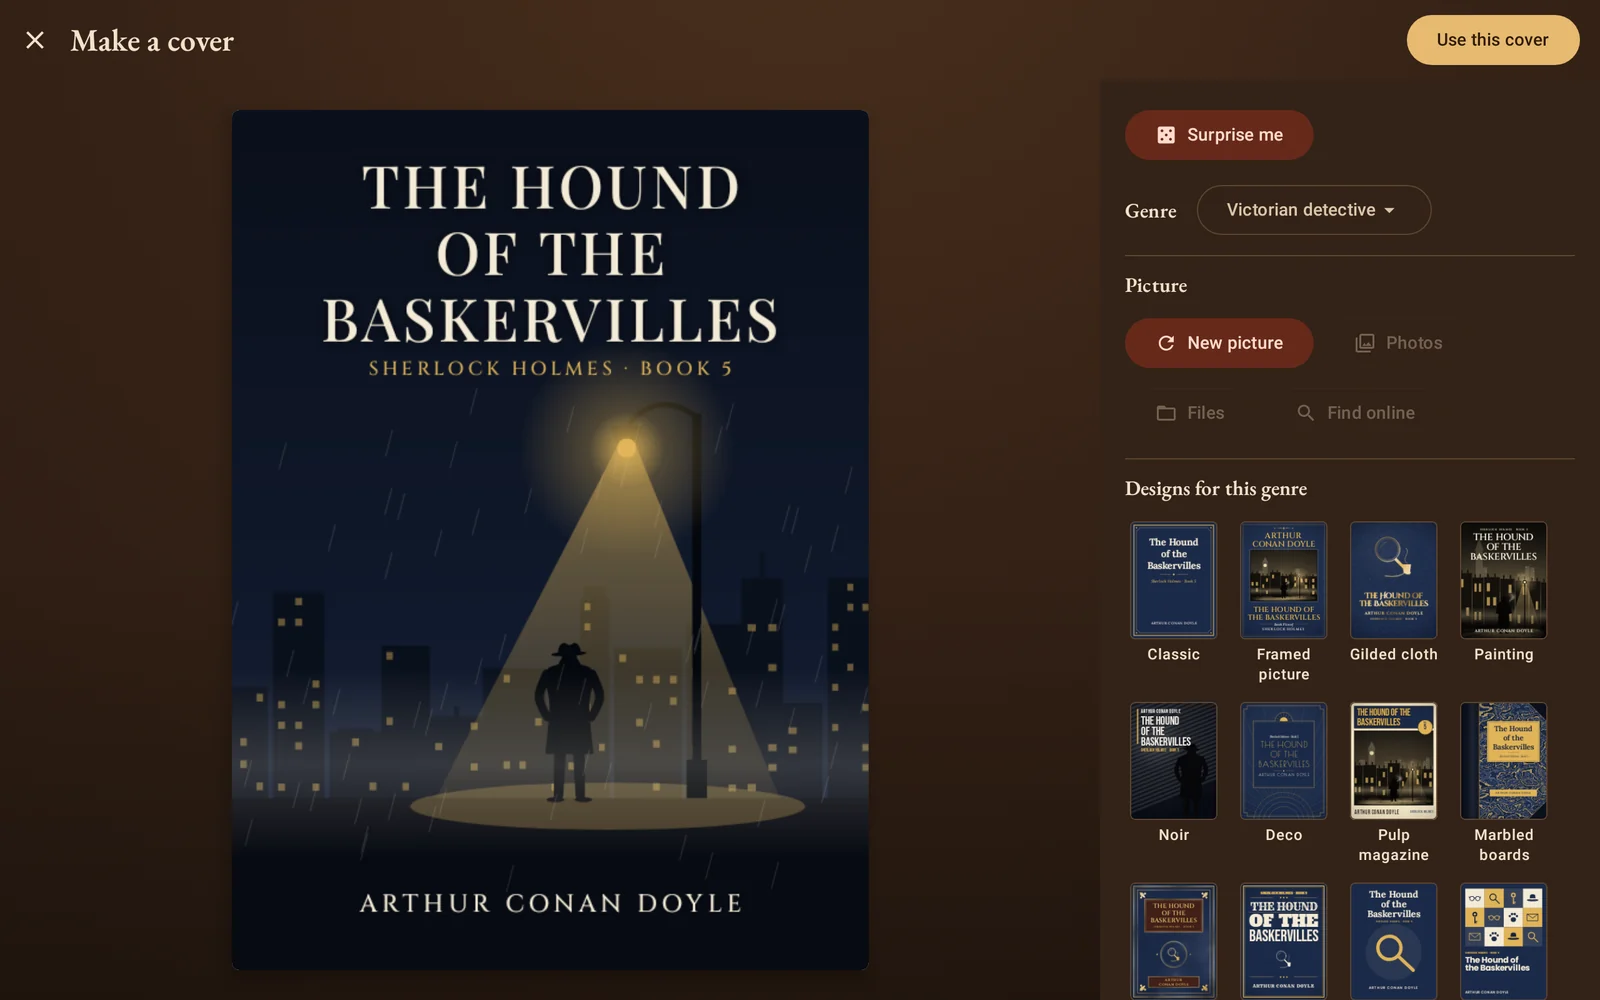
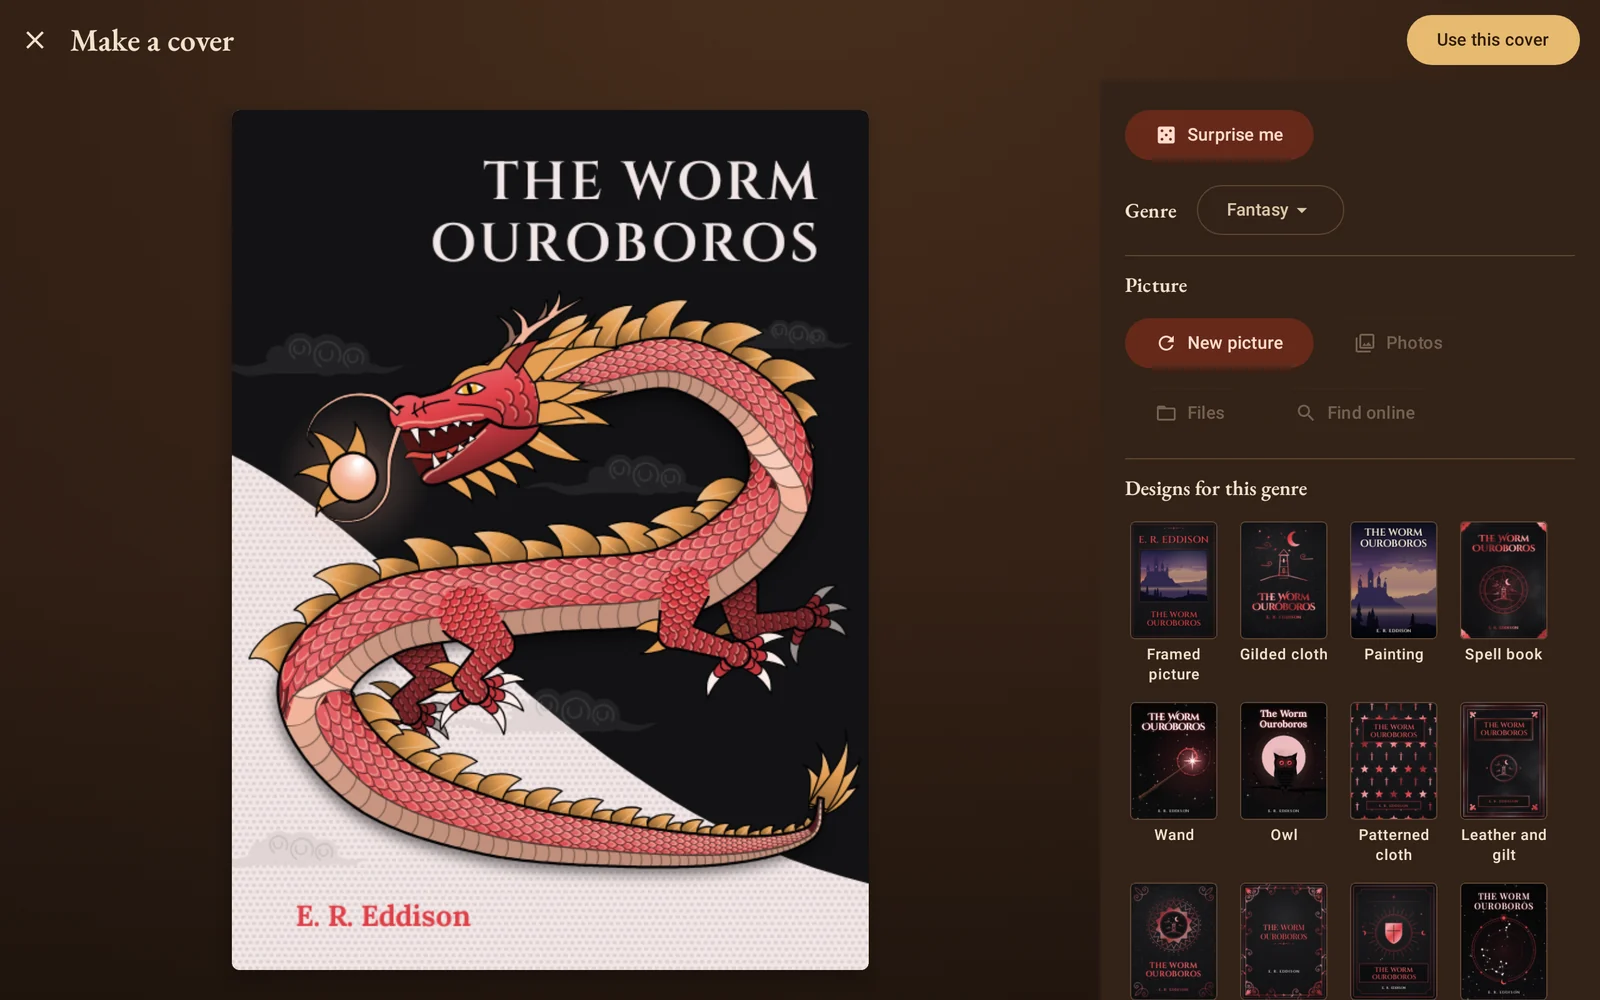
README: cover generator screenshot shows the dragon design

Changed region(s): [[0.125, 0.155, 0.5625, 0.992], [0.6875, 0.496, 0.9688, 1.0], [0.75, 0.186, 0.875, 0.217]]

diff --git a/app/src/test/java/dev/kobolibrary/app/AdvertShots140.kt b/app/src/test/java/dev/kobolibrary/app/AdvertShots140.kt
@@ -614,17 +614,18 @@ class AdvertShots140 {
     }
 
     /** The cover generator as it is now, on five of its designs for the Hound, each in a colour of its own. */
-    private fun generatorNow(name: String, style: CoverStyle, genre: dev.kobolibrary.app.ui.cover.CoverGenre, colors: CoverColors) {
+    private val wormText = CoverText("The Worm Ouroboros", listOf("E. R. Eddison"), null, null)
+    private fun generatorNow(name: String, style: CoverStyle, genre: dev.kobolibrary.app.ui.cover.CoverGenre, colors: CoverColors, text: CoverText = houndText) {
         out = five
         out.mkdirs()
         compose.mainClock.autoAdvance = true
-        compose.setContent { AppSurface(ThemeChoice.BOOKCASE) { CoverGeneratorScreen(houndText, onUse = { _, _ -> }, onCancel = {}, initial = CoverDesign(style, colors, genre)) } }
+        compose.setContent { AppSurface(ThemeChoice.BOOKCASE) { CoverGeneratorScreen(text, onUse = { _, _ -> }, onCancel = {}, initial = CoverDesign(style, colors, genre)) } }
         repeat(28) { compose.waitForIdle(); Thread.sleep(250) }
         captureScreenRoboImage(File(out, "$name.png").path)
     }
     @Test @Config(qualifiers = TAB) fun fiveGen1() = generatorNow("ad_newgen_1", CoverStyle.FRAMED, dev.kobolibrary.app.ui.cover.CoverGenre.HORROR, theme("Claret"))
     @Test @Config(qualifiers = TAB) fun fiveGen2() = generatorNow("ad_newgen_2", CoverStyle.GILDED, dev.kobolibrary.app.ui.cover.CoverGenre.DETECTIVE, theme("Emerald"))
-    @Test @Config(qualifiers = TAB) fun fiveGen3() = generatorNow("ad_newgen_3", CoverStyle.LAMPLIGHT, dev.kobolibrary.app.ui.cover.CoverGenre.DETECTIVE, theme("Midnight"))
+    @Test @Config(qualifiers = TAB) fun fiveGen3() = generatorNow("ad_newgen_3", CoverStyle.WYRM, dev.kobolibrary.app.ui.cover.CoverGenre.FANTASY, theme("Obsidian"), wormText)
     @Test @Config(qualifiers = TAB) fun fiveGen4() = generatorNow("ad_newgen_4", CoverStyle.SNAPSHOT, dev.kobolibrary.app.ui.cover.CoverGenre.HORROR, theme("Plum"))
     @Test @Config(qualifiers = TAB) fun fiveGen5() = generatorNow("ad_newgen_5", CoverStyle.OWL, dev.kobolibrary.app.ui.cover.CoverGenre.DETECTIVE, theme("Midnight"))
 
